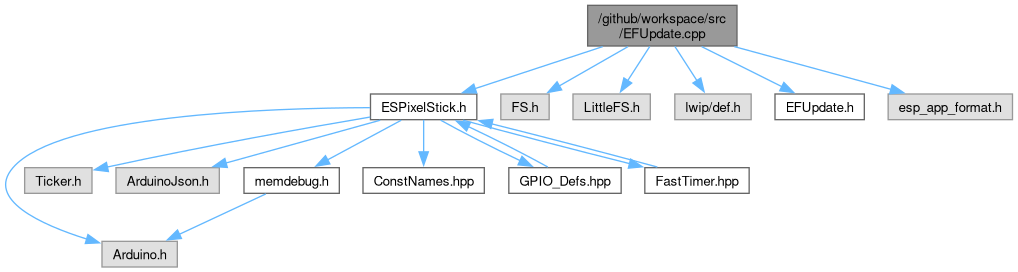
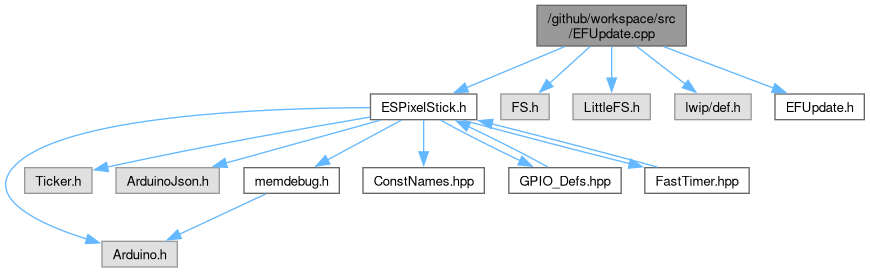
deploy: aa68a055c6cc3bcf34bca1203187b8eef704c8b2

Changed region(s): [[0.0, 0.0, 1.0, 1.0], [0.4966, 0.2647, 0.5276, 0.2941]]

diff --git a/doxy/_e_f_update_8cpp.html b/doxy/_e_f_update_8cpp.html
@@ -100,25 +100,22 @@ $(document).ready(function(){initNavTree('_e_f_update_8cpp.html',''); initResiza
 <code>#include &lt;LittleFS.h&gt;</code><br />
 <code>#include &lt;lwip/def.h&gt;</code><br />
 <code>#include &quot;<a class="el" href="_e_f_update_8h_source.html">EFUpdate.h</a>&quot;</code><br />
-<code>#include &lt;esp_app_format.h&gt;</code><br />
 </div><div class="textblock"><div class="dynheader">
 Include dependency graph for EFUpdate.cpp:</div>
 <div class="dyncontent">
 <div class="center"><img src="_e_f_update_8cpp__incl.png" border="0" usemap="#a_2github_2workspace_2src_2_e_f_update_8cpp" alt=""/></div>
 <map name="a_2github_2workspace_2src_2_e_f_update_8cpp" id="a_2github_2workspace_2src_2_e_f_update_8cpp">
-<area shape="rect" title=" " alt="" coords="588,5,737,46"/>
+<area shape="rect" title=" " alt="" coords="537,5,686,46"/>
 <area shape="rect" href="_e_s_pixel_stick_8h.html" title=" " alt="" coords="370,94,477,120"/>
-<area shape="poly" title=" " alt="" coords="604,49,476,91,474,86,602,44"/>
+<area shape="poly" title=" " alt="" coords="566,49,467,90,465,85,564,44"/>
 <area shape="rect" title=" " alt="" coords="501,94,549,120"/>
-<area shape="poly" title=" " alt="" coords="629,49,560,88,558,84,627,44"/>
+<area shape="poly" title=" " alt="" coords="592,48,551,85,548,81,588,44"/>
 <area shape="rect" title=" " alt="" coords="573,94,650,120"/>
-<area shape="poly" title=" " alt="" coords="652,48,630,82,625,79,648,45"/>
+<area shape="poly" title=" " alt="" coords="614,46,614,78,609,78,609,46"/>
 <area shape="rect" title=" " alt="" coords="675,94,751,120"/>
-<area shape="poly" title=" " alt="" coords="677,45,699,79,695,82,673,48"/>
+<area shape="poly" title=" " alt="" coords="638,44,687,82,684,86,635,49"/>
 <area shape="rect" href="_e_f_update_8h.html" title=" " alt="" coords="775,94,864,120"/>
-<area shape="poly" title=" " alt="" coords="703,44,783,84,781,89,700,49"/>
-<area shape="rect" title=" " alt="" coords="888,94,1012,120"/>
-<area shape="poly" title=" " alt="" coords="735,44,892,87,890,92,734,49"/>
+<area shape="poly" title=" " alt="" coords="665,44,775,86,773,91,663,49"/>
 <area shape="rect" title=" " alt="" coords="102,241,177,267"/>
 <area shape="poly" title=" " alt="" coords="370,110,278,112,171,121,120,128,75,139,39,152,15,169,9,180,9,190,14,199,24,208,53,224,88,237,86,242,51,229,21,212,10,202,4,191,4,179,11,166,36,148,73,134,119,123,171,115,278,107,370,105"/>
 <area shape="rect" title=" " alt="" coords="25,168,92,193"/>
